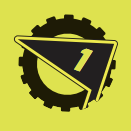
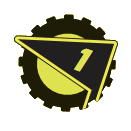
Removed yellow background from some checkpoint images.

diff --git a/RoboRally/src/main/java/gruppe15/roborally/view/SpaceView.java b/RoboRally/src/main/java/gruppe15/roborally/view/SpaceView.java
@@ -41,7 +41,8 @@ public class SpaceView extends StackPane implements ViewObserver {
     public final Space space;
     public final static int SPACE_HEIGHT = 50; // 60; // 75;
     public final static int SPACE_WIDTH = 50;  // 60; // 75;
-    private final ImageView imageView = new ImageView();
+    private final ImageView backgroundImageView = new ImageView();
+    private final ImageView boardElementImageView = new ImageView();
 
     public SpaceView(@NotNull Space space) {
         this.space = space;
@@ -55,10 +56,17 @@ public class SpaceView extends StackPane implements ViewObserver {
         this.setMinHeight(SPACE_HEIGHT);
         this.setMaxHeight(SPACE_HEIGHT);
 
-        imageView.setFitWidth(SPACE_WIDTH);
-        imageView.setFitHeight(SPACE_HEIGHT);
-        imageView.setImage(space.getImage());
-        this.getChildren().add(imageView);
+        backgroundImageView.setFitWidth(SPACE_WIDTH);
+        backgroundImageView.setFitHeight(SPACE_HEIGHT);
+        backgroundImageView.setImage(space.getImage());
+        this.getChildren().add(backgroundImageView);
+
+        if (space.getBoardElement() != null) {
+            boardElementImageView.setFitWidth(SPACE_WIDTH);
+            boardElementImageView.setFitHeight(SPACE_HEIGHT);
+            boardElementImageView.setImage(space.getBoardElement().getImage());
+            this.getChildren().add(boardElementImageView);
+        }
 
         /*if ((space.x + space.y) % 2 == 0) {
             this.setStyle("-fx-background-color: white;");
@@ -75,7 +83,10 @@ public class SpaceView extends StackPane implements ViewObserver {
 
     private void updatePlayer() {
         this.getChildren().clear();
-        this.getChildren().add(imageView);
+        this.getChildren().add(backgroundImageView);
+        if (space.getBoardElement() != null) {
+            this.getChildren().add(boardElementImageView);
+        }
 
         Player player = space.getPlayer();
         if (player != null) {

diff --git a/RoboRally/src/main/java/gruppe15/roborally/model/Space.java b/RoboRally/src/main/java/gruppe15/roborally/model/Space.java
@@ -22,9 +22,8 @@
 package gruppe15.roborally.model;
 
 import gruppe15.observer.Subject;
+import gruppe15.roborally.model.utils.ImageUtils;
 import javafx.scene.image.Image;
-
-import java.util.Objects;
 
 import static gruppe15.roborally.model.Heading.*;
 
@@ -43,7 +42,7 @@ public class Space extends Subject {
 
     private Player player;
     private final BoardElement boardElement;
-    private final Image image;
+    private final Image backgroundImage;
 
     public Space(Board board, int x, int y) {
         this(board, x, y, null);
@@ -56,7 +55,7 @@ public class Space extends Subject {
         player = null;
         //this.boardElement = new BoardElement(false, false, NORTH);
         this.boardElement = boardElement;
-        image = getInitializedSpaceImage();
+        backgroundImage = ImageUtils.getImageFromName("empty.png");
     }
 
     public Player getPlayer() {
@@ -217,22 +216,7 @@ public class Space extends Subject {
                 return null;
         }
     }
-
-    private Image getInitializedSpaceImage() {
-        String imagePath;
-        if (boardElement == null) {
-            imagePath = "/gruppe15/roborally/images/empty.png";
-            try {
-                return new Image(Objects.requireNonNull(Space.class.getResourceAsStream(imagePath)));
-            } catch (Exception e) {
-                System.out.println("Error importing image with path: " + imagePath);
-                return null;
-            }
-        } else {
-            return boardElement.getImage();
-        }
-    }
     public Image getImage() {
-        return image;
+        return backgroundImage;
     }
 }

diff --git a/RoboRally/src/main/java/gruppe15/roborally/model/BoardElement.java b/RoboRally/src/main/java/gruppe15/roborally/model/BoardElement.java
@@ -1,8 +1,7 @@
 package gruppe15.roborally.model;
 
+import gruppe15.roborally.model.utils.ImageUtils;
 import javafx.scene.image.Image;
-
-import java.util.Objects;
 
 /**
  * Placeholder BoardElement class.
@@ -25,7 +24,7 @@ public class BoardElement {
         this.hasWall = hasWall;
         this.isHole = isHole;
         this.wallDirection = wallDirection;
-        this.image = getImageFromName(imageName);
+        this.image = ImageUtils.getImageFromName(imageName);
     }
 
     public boolean getHasWall() {
@@ -36,16 +35,6 @@ public class BoardElement {
     }
     public Heading getWallDirection() {
         return wallDirection;
-    }
-
-    private Image getImageFromName(String imageName) {
-        String imagePath = "/gruppe15/roborally/images/" + imageName;
-        try {
-            return new Image(Objects.requireNonNull(BoardElement.class.getResourceAsStream(imagePath)));
-        } catch (Exception e) {
-            System.out.println("Error importing image with path: " + imagePath);
-            return null;
-        }
     }
     public Image getImage() {
         return image;

diff --git a/RoboRally/src/main/java/gruppe15/roborally/model/utils/ImageUtils.java b/RoboRally/src/main/java/gruppe15/roborally/model/utils/ImageUtils.java
@@ -1,0 +1,22 @@
+package gruppe15.roborally.model.utils;
+
+import gruppe15.roborally.model.BoardElement;
+import javafx.scene.image.Image;
+
+import java.util.Objects;
+
+public class ImageUtils {
+    /**
+     * @param imageName Specified by the file name + the file extension. E.g: "empty.png".
+     * @return Returns the image with the name and file extension from the /gruppe15/roborally/images/ folder.
+     */
+    public static Image getImageFromName(String imageName) {
+        String imagePath = "/gruppe15/roborally/images/" + imageName;
+        try {
+            return new Image(Objects.requireNonNull(BoardElement.class.getResourceAsStream(imagePath)));
+        } catch (Exception e) {
+            System.out.println("Error importing image with path: " + imagePath);
+            return null;
+        }
+    }
+}
